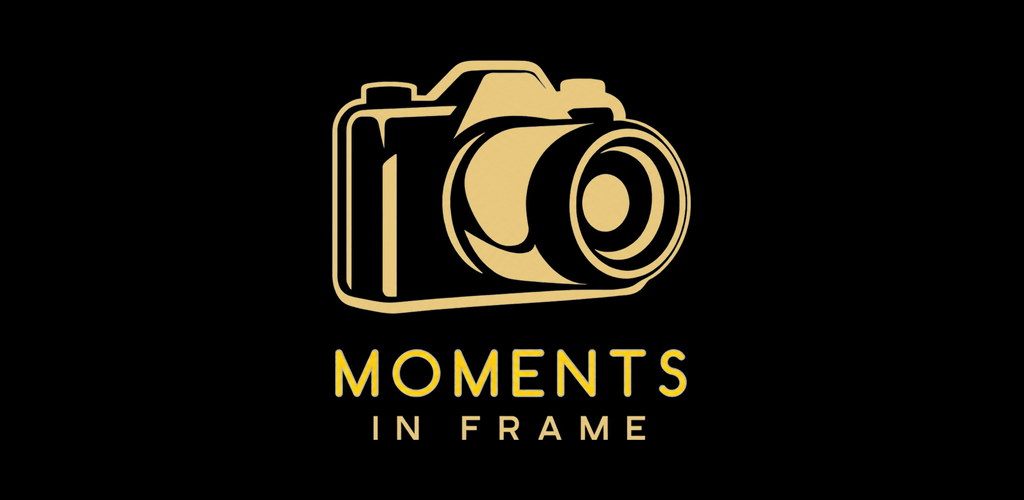
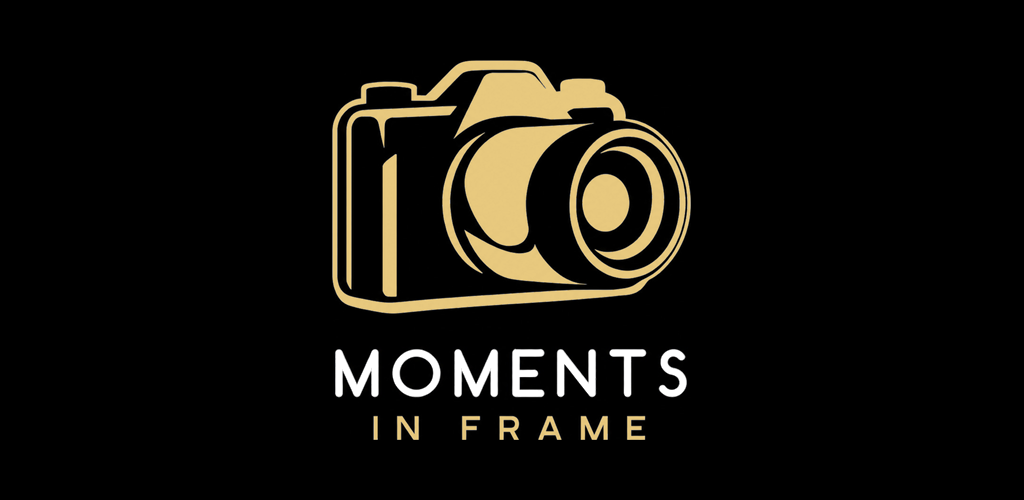
fix: mobile data connectivity — add fetch timeouts, retry logic, and white MOMENTS text in feature graphic
- lib/api.ts: add 15s AbortController timeout to get() and post()
- app/event.tsx: auto-retry loadPhotos() once on failure with error logging
- assets/feature_graphic.png: recolour MOMENTS text from gold to white

Changed region(s): [[0.3125, 0.69, 0.6875, 0.81]]

diff --git a/lib/api.ts b/lib/api.ts
@@ -1,17 +1,34 @@
 import { API_BASE_URL } from '../constants/config';
 
+function makeTimeout(ms: number) {
+  const controller = new AbortController();
+  const id = setTimeout(() => controller.abort(), ms);
+  return { signal: controller.signal, clear: () => clearTimeout(id) };
+}
+
 async function post(path: string, body: object) {
-  const res = await fetch(`${API_BASE_URL}${path}`, {
-    method: 'POST',
-    headers: { 'Content-Type': 'application/json' },
-    body: JSON.stringify(body),
-  });
-  return res.json();
+  const { signal, clear } = makeTimeout(15000);
+  try {
+    const res = await fetch(`${API_BASE_URL}${path}`, {
+      method: 'POST',
+      headers: { 'Content-Type': 'application/json' },
+      body: JSON.stringify(body),
+      signal,
+    });
+    return res.json();
+  } finally {
+    clear();
+  }
 }
 
 async function get(path: string, headers: Record<string, string> = {}) {
-  const res = await fetch(`${API_BASE_URL}${path}`, { headers });
-  return res.json();
+  const { signal, clear } = makeTimeout(15000);
+  try {
+    const res = await fetch(`${API_BASE_URL}${path}`, { headers, signal });
+    return res.json();
+  } finally {
+    clear();
+  }
 }
 
 async function del(path: string, body: object) {

diff --git a/app/event.tsx b/app/event.tsx
@@ -682,7 +682,7 @@ export default function EventScreen() {
     setLoading(true);
     setUploadSummary(null);
     setNewlyUploadedIds(new Set());
-    try {
+    async function attempt() {
       const data = await getEventPhotos(slug, params.adminPhone || undefined);
       if (data.error) { setLoading(false); showAlert('Error', data.error); return; }
       const main: Photo[] = data.photos ?? [];
@@ -695,9 +695,18 @@ export default function EventScreen() {
       }
       setLoading(false);
       loadAllUrls([...main, ...other]);
-    } catch {
-      showAlert('Error', 'Could not load photos. Check your connection.');
-      setLoading(false);
+    }
+    try {
+      await attempt();
+    } catch (e) {
+      console.warn('[loadPhotos] first attempt failed:', e);
+      try {
+        await attempt();
+      } catch (e2) {
+        console.warn('[loadPhotos] second attempt failed:', e2);
+        showAlert('Error', 'Could not load photos. Check your connection.');
+        setLoading(false);
+      }
     }
   }
 
